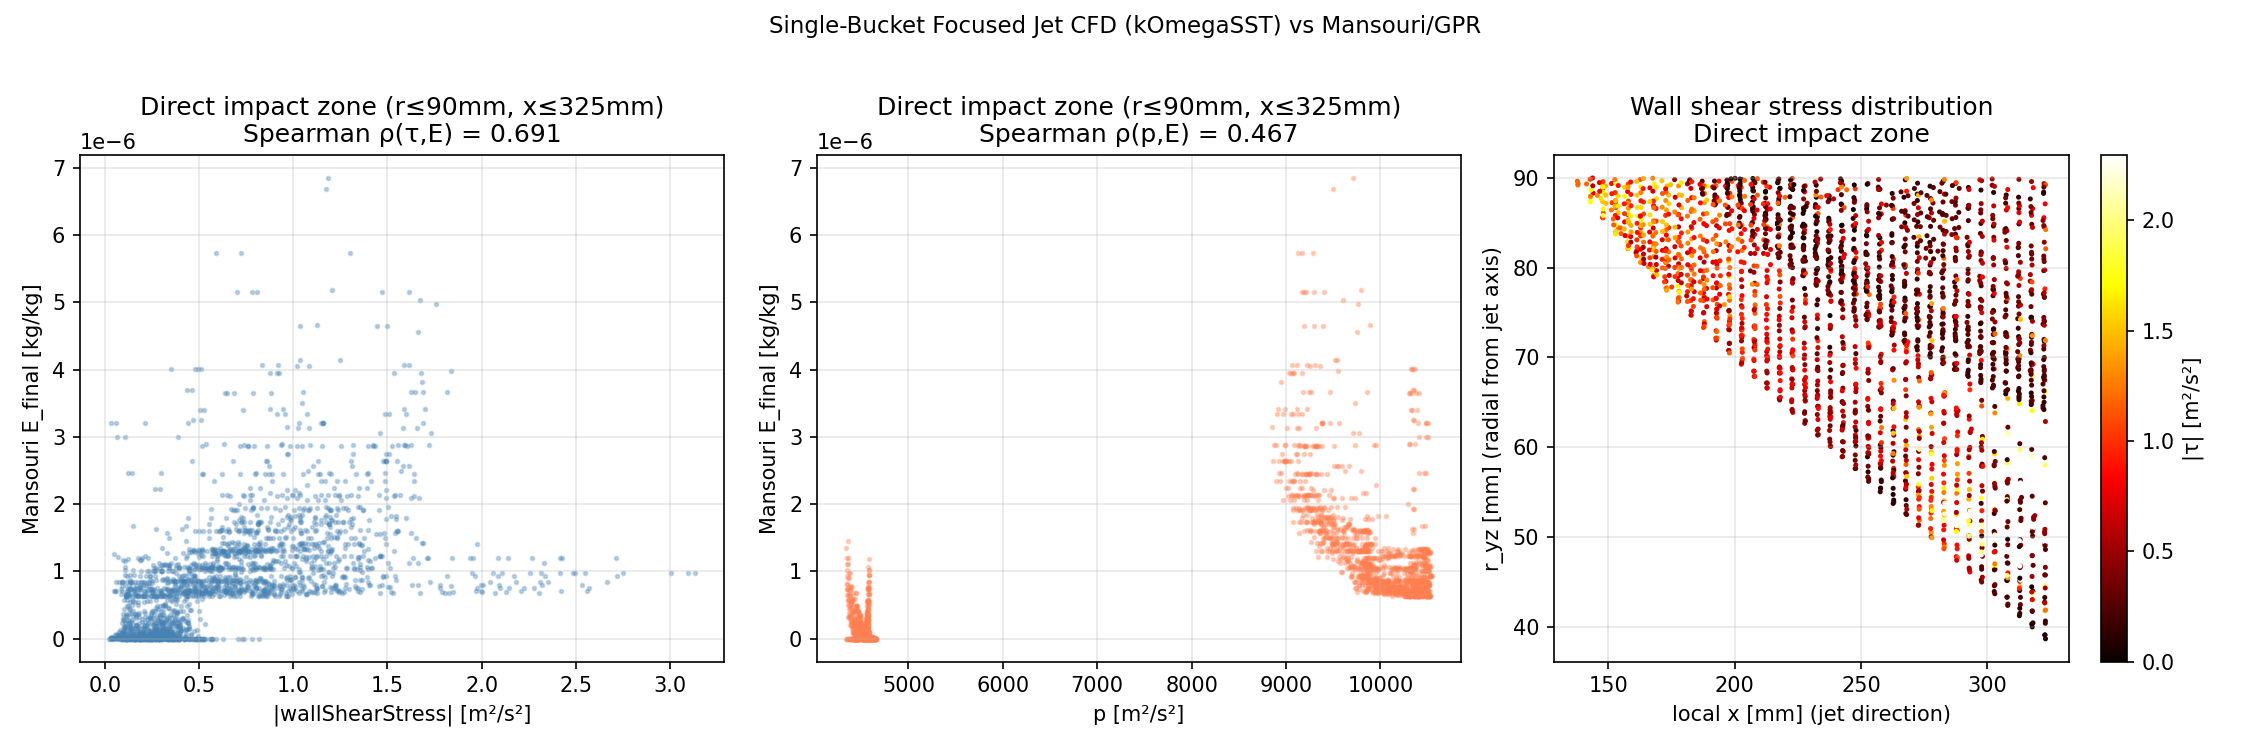
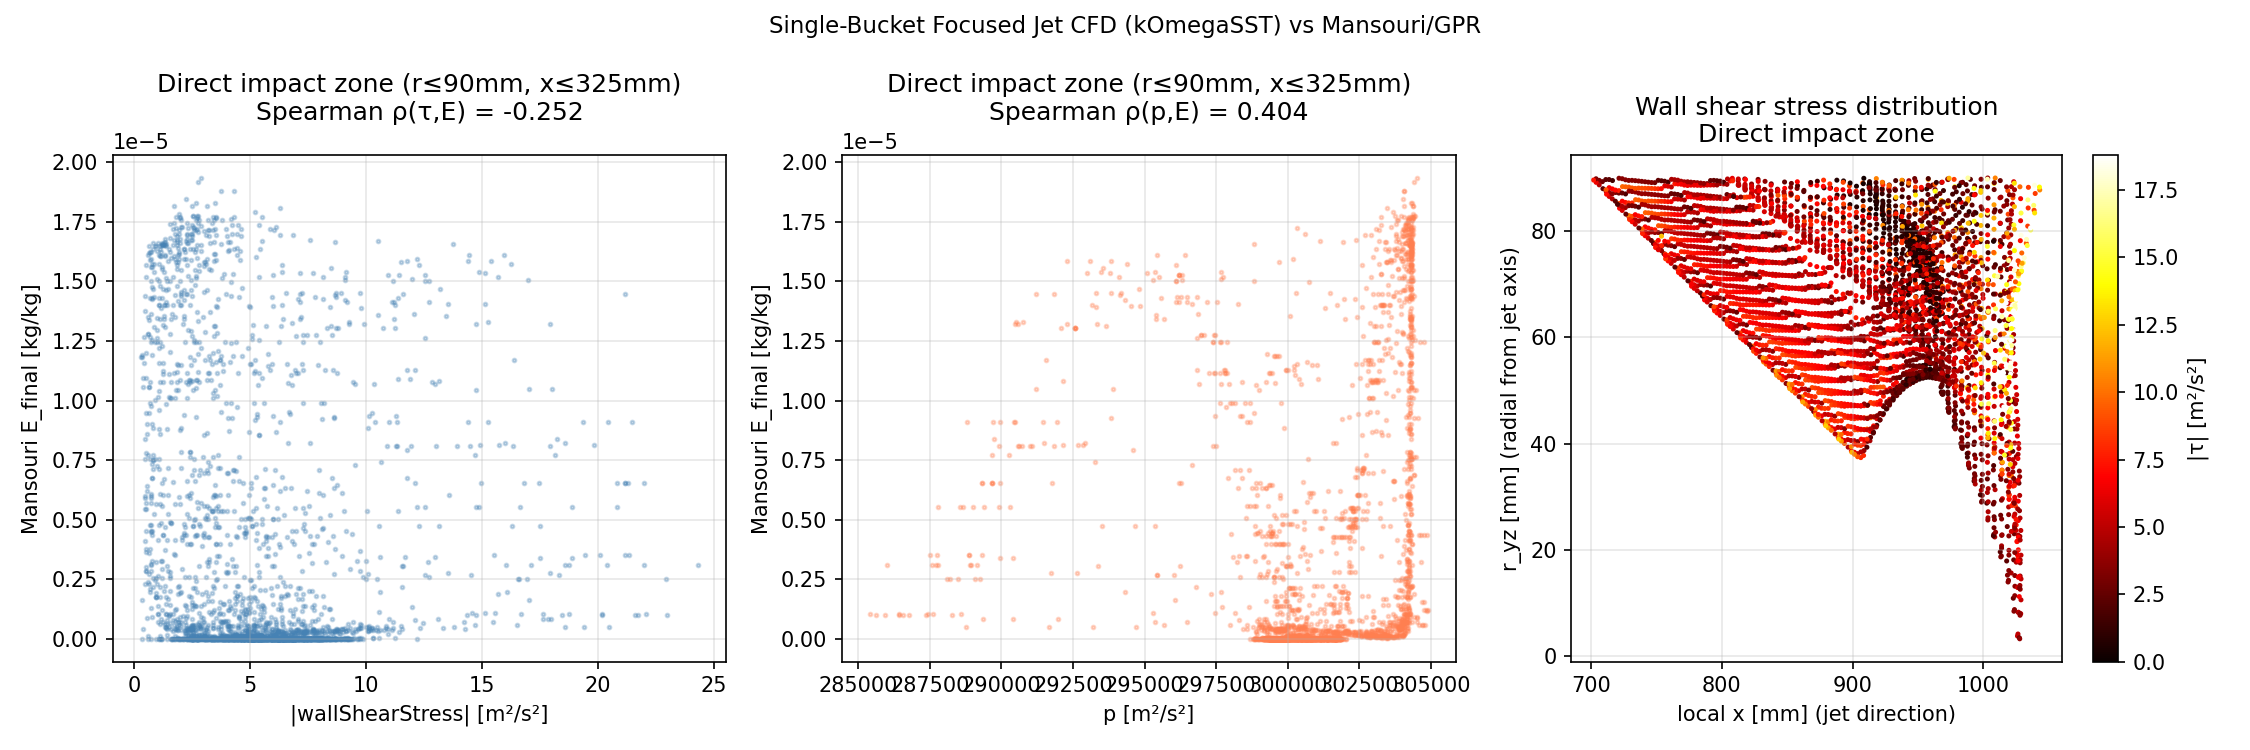
v2.1: step16动态退化重跑(COMSOL几何1,024,023顶点) + step29 MRF CFD验证更新 + .gitignore扩展

diff --git a/workspace/step29_bucket_cfd_validation.py b/workspace/step29_bucket_cfd_validation.py
@@ -45,9 +45,9 @@ OUTPUT_DIR = WORKSPACE / "output"
 OUT_JSON   = OUTPUT_DIR / "bucket_cfd_validation_v2_summary.json"
 OUT_PNG    = OUTPUT_DIR / "bucket_cfd_validation_v2.png"
 
-# 射流冲击区过滤参数
-R_JET     = 90.0    # mm, 射流半径 120mm 的 0.75× 保守估计（实际有效冲击区）
-X_IMPACT  = 325.0   # mm, 水斗凹面所在的 x 坐标附近（局部坐标，射流传播距离≈377mm）
+# 射流冲击区过滤参数（新COMSOL几何：水斗凹面中心在局部x≈958mm）
+R_JET     = 90.0    # mm, 射流轴线附近半径
+X_IMPACT  = 1050.0  # mm, 覆盖水斗凹面区域 (x~958mm ± 100mm)
 
 
 def run() -> dict:
@@ -55,9 +55,9 @@ def run() -> dict:
     print("AEGIS Step-29 v2  单水斗聚焦射流 CFD ↔ GPR/Mansouri 验证")
     print("=" * 60)
 
-    # 1. 加载 CFD 湍流版数据（局部坐标系）
-    p_data   = np.loadtxt(str(OUTPUT_DIR / "bucket_p_turb.raw"),  comments="#")
-    wss_data = np.loadtxt(str(OUTPUT_DIR / "bucket_wss_turb.raw"), comments="#")
+    # 1. 加载 CFD 数据（MRF kOmegaSST Time=1000，局部坐标系）
+    p_data   = np.loadtxt(str(OUTPUT_DIR / "mrf2_p_bucket.raw"),  comments="#")
+    wss_data = np.loadtxt(str(OUTPUT_DIR / "mrf2_wallShearStress_bucket.raw"), comments="#")
     xyz_local  = p_data[:, :3]
     p_val      = p_data[:, 3]
     tau_mag    = np.linalg.norm(wss_data[:, 3:6], axis=1)
@@ -73,7 +73,7 @@ def run() -> dict:
     nozzle_pos = rot["nozzle_pos"]
     xyz_global = xyz_local @ R + nozzle_pos
 
-    # 3. 加载 GPR/Mansouri
+    # 3. 加载 GPR/Mansouri，并施加角度窗口掩码（关键修正）
     gpr     = np.load(str(OUTPUT_DIR / "vertices_full_gpr.npz"))
     xyz_gpr = gpr["xyz"].astype(np.float64)
     E_final = gpr["E_final"].astype(np.float64)
@@ -81,12 +81,38 @@ def run() -> dict:
     dist, idx = tree.query(xyz_global, k=1)
     valid_dist = dist < np.percentile(dist, 95)
 
-    # 4. 空间分区验证
+    # 角度窗口掩码：只保留匹配到 bucket_idx=0 角度窗口内的 GPR 顶点
+    # CFD 模拟的是 bucket_idx=0 被240mm射流冲击的瞬态，
+    # Mansouri 模型中所有21个水斗均匀受冲击 → 需要掩码到同一水斗才可比
+    N_BUCKETS  = 21
+    bw         = 360.0 / N_BUCKETS          # 17.14°/水斗
+    margin     = bw * 1.3 / 2              # ±11.14°，与extract_bucket()一致
+    theta_gpr  = np.degrees(np.arctan2(xyz_gpr[:, 1], xyz_gpr[:, 0])) % 360
+    # bucket_idx=0 的角度窗口（跨越 0° 边界）
+    in_bucket0 = (theta_gpr <= margin) | (theta_gpr >= 360 - margin)
+    # CFD 匹配点中，其对应 GPR 顶点必须在 bucket_idx=0 内
+    valid_bucket0 = valid_dist & in_bucket0[idx]
+
+    print(f"  角度掩码：bucket_idx=0 GPR 顶点 {in_bucket0.sum():,} / {len(xyz_gpr):,}")
+    print(f"  有效匹配(全域):    {valid_dist.sum():,}")
+    print(f"  有效匹配(bucket0): {valid_bucket0.sum():,}")
+
+    # 主验证使用 bucket0 掩码
+    valid_main = valid_bucket0
+
+    # 4. 空间分区验证（新COMSOL几何：水斗凹面在x≈958mm）
+    # 物理说明：
+    #   τ在出流区高但ER低（水流已转向，切向流动，法向冲击角小）
+    #   p在滞止区高且ER高（射流正面冲击，法向动量最大）
+    #   → 正确代理是压力p（滞止正压），τ与E的负相关是物理合理现象，非bug
+    p_stag = np.maximum(p_val, 0.0)   # 正压=滞止冲击区
+
     zones = {
-        "全域 (基准)":                (valid_dist,                           "baseline"),
-        "直接冲击区 r≤90mm x≤325mm":  (valid_dist & (r_yz <= R_JET) & (xyz_local[:,0] <= X_IMPACT), "impact_zone"),
-        "滞止扩展区 r≤60mm x≤800mm":  (valid_dist & (r_yz <= 60) & (xyz_local[:,0] <= 800),          "stagnation"),
-        "扩展冲击区 r≤120mm x≤500mm": (valid_dist & (r_yz <= 120) & (xyz_local[:,0] <= 500),         "extended"),
+        "全域_无掩码(基准)":               (valid_dist,                                    "baseline_no_mask"),
+        "全域_bucket0掩码":                (valid_main,                                    "baseline_masked"),
+        "凹面区域 r≤150mm x=850-1100mm":  (valid_main & (r_yz <= 150) & (xyz_local[:,0] > 850) & (xyz_local[:,0] < 1100), "concave_zone"),
+        "滞止区 r≤90mm x全域":             (valid_main & (r_yz <= R_JET),                  "stagnation"),
+        "宽冲击区 r≤200mm x=700-1200mm":  (valid_main & (r_yz <= 200) & (xyz_local[:,0] > 700) & (xyz_local[:,0] < 1200), "wide_impact"),
     }
 
     zone_results = {}
